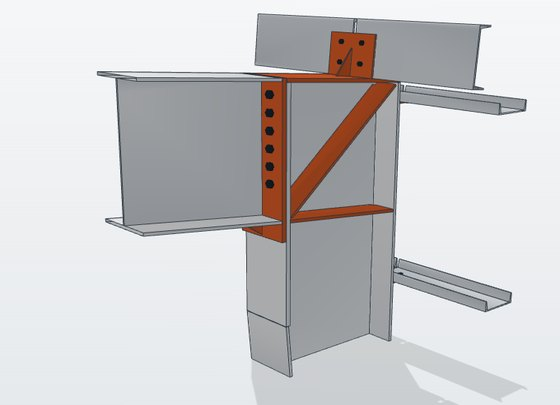
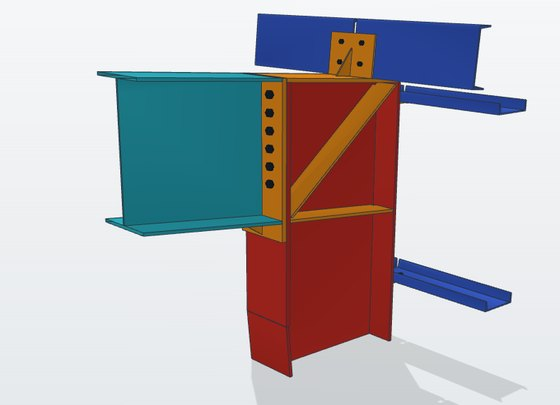
Connection explorer: Tekla class colours, amber connection parts

diff --git a/projects/steel-warehouse.html b/projects/steel-warehouse.html
@@ -126,16 +126,16 @@
       <ul><li>The shear lugs at the side columns now run across the frame, so they bear against the concrete in the direction of the 84 kN frame shear.</li><li>The splice end plates stand 10 mm proud of the flush flange, so the sloped flange is fully cut and welded to the plate.</li><li>The purlin cleats on the two gable frames have 4 bolts instead of 2. Two columns of bolts let the joint resist rotation on its own.</li><li>The pedestal ties continue down through the footing to just above the bottom mesh, holding the starter bars in place.</li></ul>
       <p class="hint">Select a connection to open it in 3D. Drag to rotate, scroll or pinch to zoom.</p>
       <div class="conns" id="conns">
-        <button type="button" class="conn" data-k="knee"><img src="img/conn/knee.jpg?v=3" alt="" width="560" height="405" loading="lazy"><span class="ct">Eave knee</span><span class="cd">Bolted end plate, 12 × M24</span><span class="cr">Max ratio 0.80</span></button>
-        <button type="button" class="conn" data-k="ridge"><img src="img/conn/ridge.jpg?v=3" alt="" width="560" height="405" loading="lazy"><span class="ct">Ridge and column cap</span><span class="cd">Extended end plates, 10 × M30</span><span class="cr">Max ratio 0.68</span></button>
-        <button type="button" class="conn" data-k="splice607"><img src="img/conn/splice607.jpg?v=3" alt="" width="560" height="405" loading="lazy"><span class="ct">Rafter splice at 6.07 m</span><span class="cd">Extended end plates, 8 × M24</span><span class="cr">Max ratio 0.36</span></button>
-        <button type="button" class="conn" data-k="splice1607"><img src="img/conn/splice1607.jpg?v=3" alt="" width="560" height="405" loading="lazy"><span class="ct">Rafter splice at 16.07 m</span><span class="cd">Extended end plates, 8 × M24</span><span class="cr">Max ratio 0.24</span></button>
-        <button type="button" class="conn" data-k="base_side"><img src="img/conn/base_side.jpg?v=3" alt="" width="560" height="405" loading="lazy"><span class="ct">Side column base</span><span class="cd">Shear lug across the frame</span><span class="cr">Max ratio 0.75</span></button>
-        <button type="button" class="conn" data-k="base_central"><img src="img/conn/base_central.jpg?v=3" alt="" width="560" height="405" loading="lazy"><span class="ct">Central column base</span><span class="cd">4 anchor rods, no uplift</span><span class="cr">Max ratio 0.10</span></button>
-        <button type="button" class="conn" data-k="base_gable"><img src="img/conn/base_gable.jpg?v=3" alt="" width="560" height="405" loading="lazy"><span class="ct">Gable column base</span><span class="cd">Shear on the anchor rods</span><span class="cr">Max ratio 0.65</span></button>
-        <button type="button" class="conn" data-k="purlin"><img src="img/conn/purlin.jpg?v=3" alt="" width="560" height="405" loading="lazy"><span class="ct">Purlin cleat, interior</span><span class="cd">Stiffened cleat, 2 × M16</span><span class="cr">Max ratio 0.41</span></button>
-        <button type="button" class="conn" data-k="purlin_gable"><img src="img/conn/purlin_gable.jpg?v=3" alt="" width="560" height="405" loading="lazy"><span class="ct">Purlin cleat, gable end</span><span class="cd">Stiffened cleat, 4 × M16</span><span class="cr">Max ratio 0.39</span></button>
-        <button type="button" class="conn" data-k="bracing"><img src="img/conn/bracing.jpg?v=3" alt="" width="560" height="405" loading="lazy"><span class="ct">Roof bracing</span><span class="cd">10 mm gusset, 2 × M20</span><span class="cr">Max ratio 0.10</span></button>
+        <button type="button" class="conn" data-k="knee"><img src="img/conn/knee.jpg?v=4" alt="" width="560" height="405" loading="lazy"><span class="ct">Eave knee</span><span class="cd">Bolted end plate, 12 × M24</span><span class="cr">Max ratio 0.80</span></button>
+        <button type="button" class="conn" data-k="ridge"><img src="img/conn/ridge.jpg?v=4" alt="" width="560" height="405" loading="lazy"><span class="ct">Ridge and column cap</span><span class="cd">Extended end plates, 10 × M30</span><span class="cr">Max ratio 0.68</span></button>
+        <button type="button" class="conn" data-k="splice607"><img src="img/conn/splice607.jpg?v=4" alt="" width="560" height="405" loading="lazy"><span class="ct">Rafter splice at 6.07 m</span><span class="cd">Extended end plates, 8 × M24</span><span class="cr">Max ratio 0.36</span></button>
+        <button type="button" class="conn" data-k="splice1607"><img src="img/conn/splice1607.jpg?v=4" alt="" width="560" height="405" loading="lazy"><span class="ct">Rafter splice at 16.07 m</span><span class="cd">Extended end plates, 8 × M24</span><span class="cr">Max ratio 0.24</span></button>
+        <button type="button" class="conn" data-k="base_side"><img src="img/conn/base_side.jpg?v=4" alt="" width="560" height="405" loading="lazy"><span class="ct">Side column base</span><span class="cd">Shear lug across the frame</span><span class="cr">Max ratio 0.75</span></button>
+        <button type="button" class="conn" data-k="base_central"><img src="img/conn/base_central.jpg?v=4" alt="" width="560" height="405" loading="lazy"><span class="ct">Central column base</span><span class="cd">4 anchor rods, no uplift</span><span class="cr">Max ratio 0.10</span></button>
+        <button type="button" class="conn" data-k="base_gable"><img src="img/conn/base_gable.jpg?v=4" alt="" width="560" height="405" loading="lazy"><span class="ct">Gable column base</span><span class="cd">Shear on the anchor rods</span><span class="cr">Max ratio 0.65</span></button>
+        <button type="button" class="conn" data-k="purlin"><img src="img/conn/purlin.jpg?v=4" alt="" width="560" height="405" loading="lazy"><span class="ct">Purlin cleat, interior</span><span class="cd">Stiffened cleat, 2 × M16</span><span class="cr">Max ratio 0.41</span></button>
+        <button type="button" class="conn" data-k="purlin_gable"><img src="img/conn/purlin_gable.jpg?v=4" alt="" width="560" height="405" loading="lazy"><span class="ct">Purlin cleat, gable end</span><span class="cd">Stiffened cleat, 4 × M16</span><span class="cr">Max ratio 0.39</span></button>
+        <button type="button" class="conn" data-k="bracing"><img src="img/conn/bracing.jpg?v=4" alt="" width="560" height="405" loading="lazy"><span class="ct">Roof bracing</span><span class="cd">10 mm gusset, 2 × M20</span><span class="cr">Max ratio 0.10</span></button>
       </div>
       <dialog class="cview" id="cview" aria-labelledby="cv-title">
         <div class="cv-head"><h3 id="cv-title"></h3><button type="button" class="cv-x" id="cv-close" aria-label="Close">×</button></div>
@@ -250,7 +250,7 @@ async function init(){if(T)return;
   ctl.addEventListener('start',()=>{ctl.autoRotate=false;});
   T={THREE,GLTFLoader,MeshoptDecoder,key,ground};
   new ResizeObserver(size).observe(stage);}
-const STY={frame:{c:0xf2f3f4},plate:{c:0xe0602b},purlin:{c:0xd9dee2},cleat:{c:0xe0602b},bracing:{c:0x9aa6b2},gusset:{c:0xe0602b},bolt:{c:0x1f2a33},concrete:{c:0xffffff,o:.22},rebar:{c:0x1d4e7a}};
+const STY={m0:{c:0xd8dcdf},m1:{c:0xd8dcdf},m2:{c:0xd9342b},m3:{c:0x2e9e4a},m4:{c:0x3a5fd0},m5:{c:0x2fb8c9},m6:{c:0xff9a1f},m7:{c:0xff9a1f},m8:{c:0x5d646b},m9:{c:0x2e7d32},plate:{c:0xff9a1f},cleat:{c:0xff9a1f},gusset:{c:0xff9a1f},bolt:{c:0x1f2a33},concrete:{c:0xffffff,o:.22},rebar:{c:0x1d4e7a}};
 function dress(THREE,root){root.traverse(o=>{if(!o.isMesh)return;let n=o;while(n&&!STY[n.name])n=n.parent;const st=STY[n?n.name:'plate'];
   o.material=new THREE.MeshLambertMaterial({color:st.c,side:THREE.DoubleSide,transparent:!!st.o,opacity:st.o||1,depthWrite:!st.o,polygonOffset:true,polygonOffsetFactor:1,polygonOffsetUnits:1});
   o.castShadow=!st.o;o.receiveShadow=!st.o;
@@ -262,7 +262,7 @@ async function show(i){idx=(i+ORDER.length)%ORDER.length;const k=ORDER[idx],c=C[
   document.getElementById('cv-data').innerHTML=c.r.map(([a,b])=>`<dt>${a}</dt><dd>${b}</dd>`).join('');
   msg.textContent='Loading…';msg.hidden=false;
   try{await init();size();const {THREE,GLTFLoader,MeshoptDecoder}=T;
-    const g=await new GLTFLoader().setMeshoptDecoder(MeshoptDecoder).loadAsync('model/conn/'+k+'.glb?v=1');
+    const g=await new GLTFLoader().setMeshoptDecoder(MeshoptDecoder).loadAsync('model/conn/'+k+'.glb?v=2');
     if(ORDER[idx]!==k)return;if(cur)S.remove(cur);cur=g.scene;dress(THREE,cur);S.add(cur);
     const b=new THREE.Box3().setFromObject(cur),ce=b.getCenter(new THREE.Vector3()),sz=b.getSize(new THREE.Vector3()).length();
     const {key,ground}=T;ground.position.set(ce.x,b.min.y-.002,ce.z);ground.scale.set(sz*4,sz*4,1);
